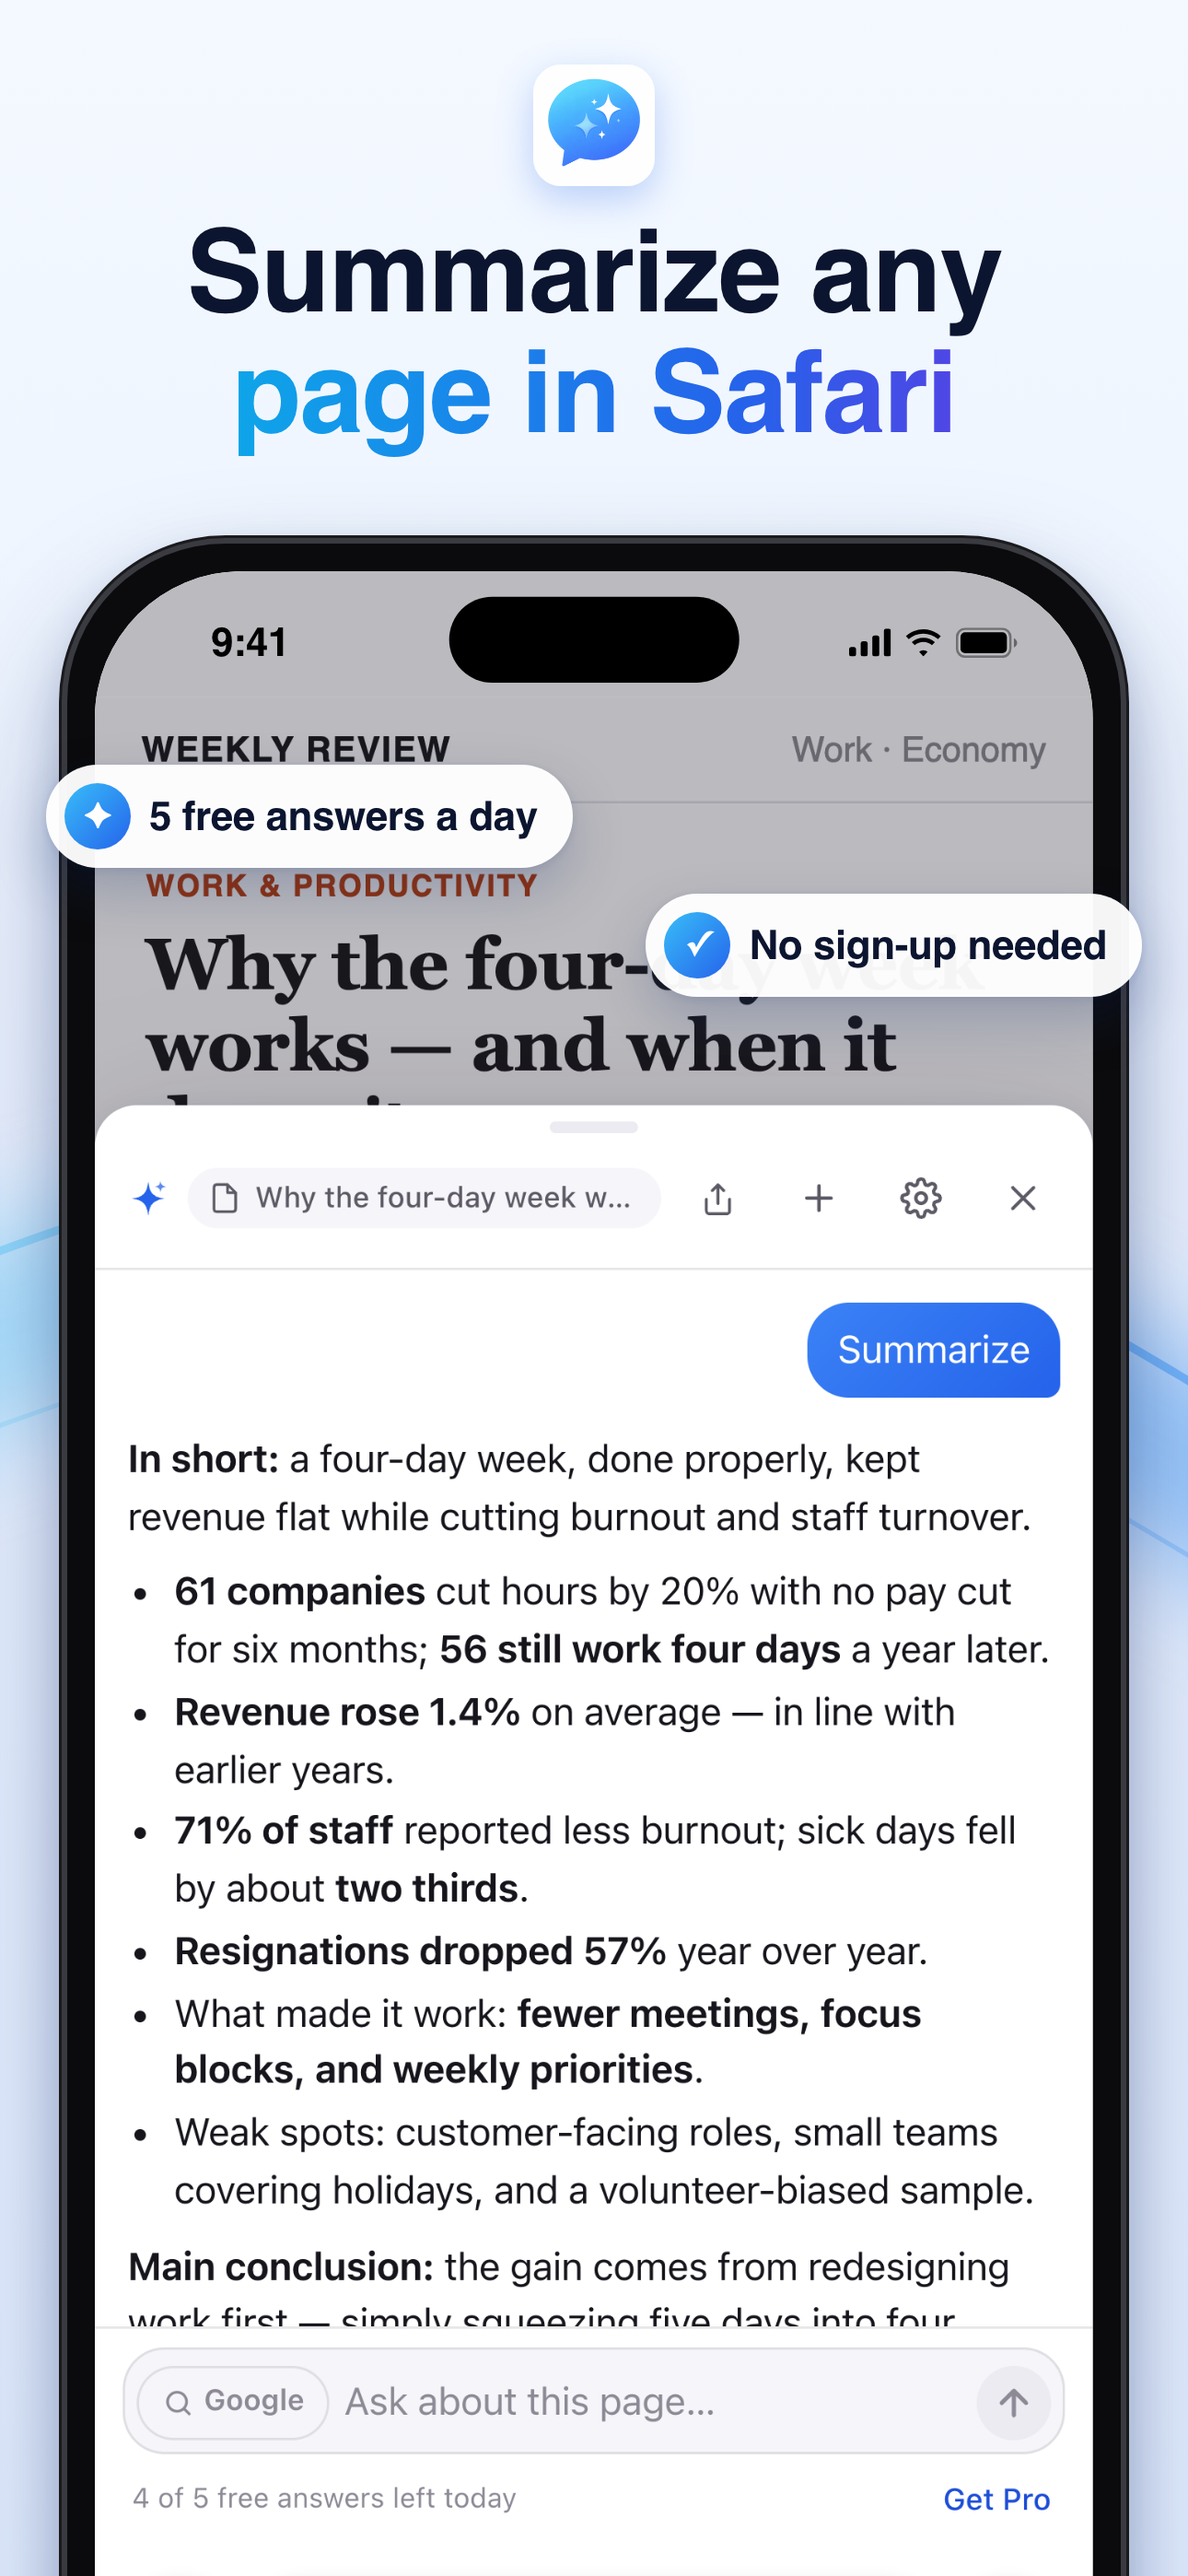
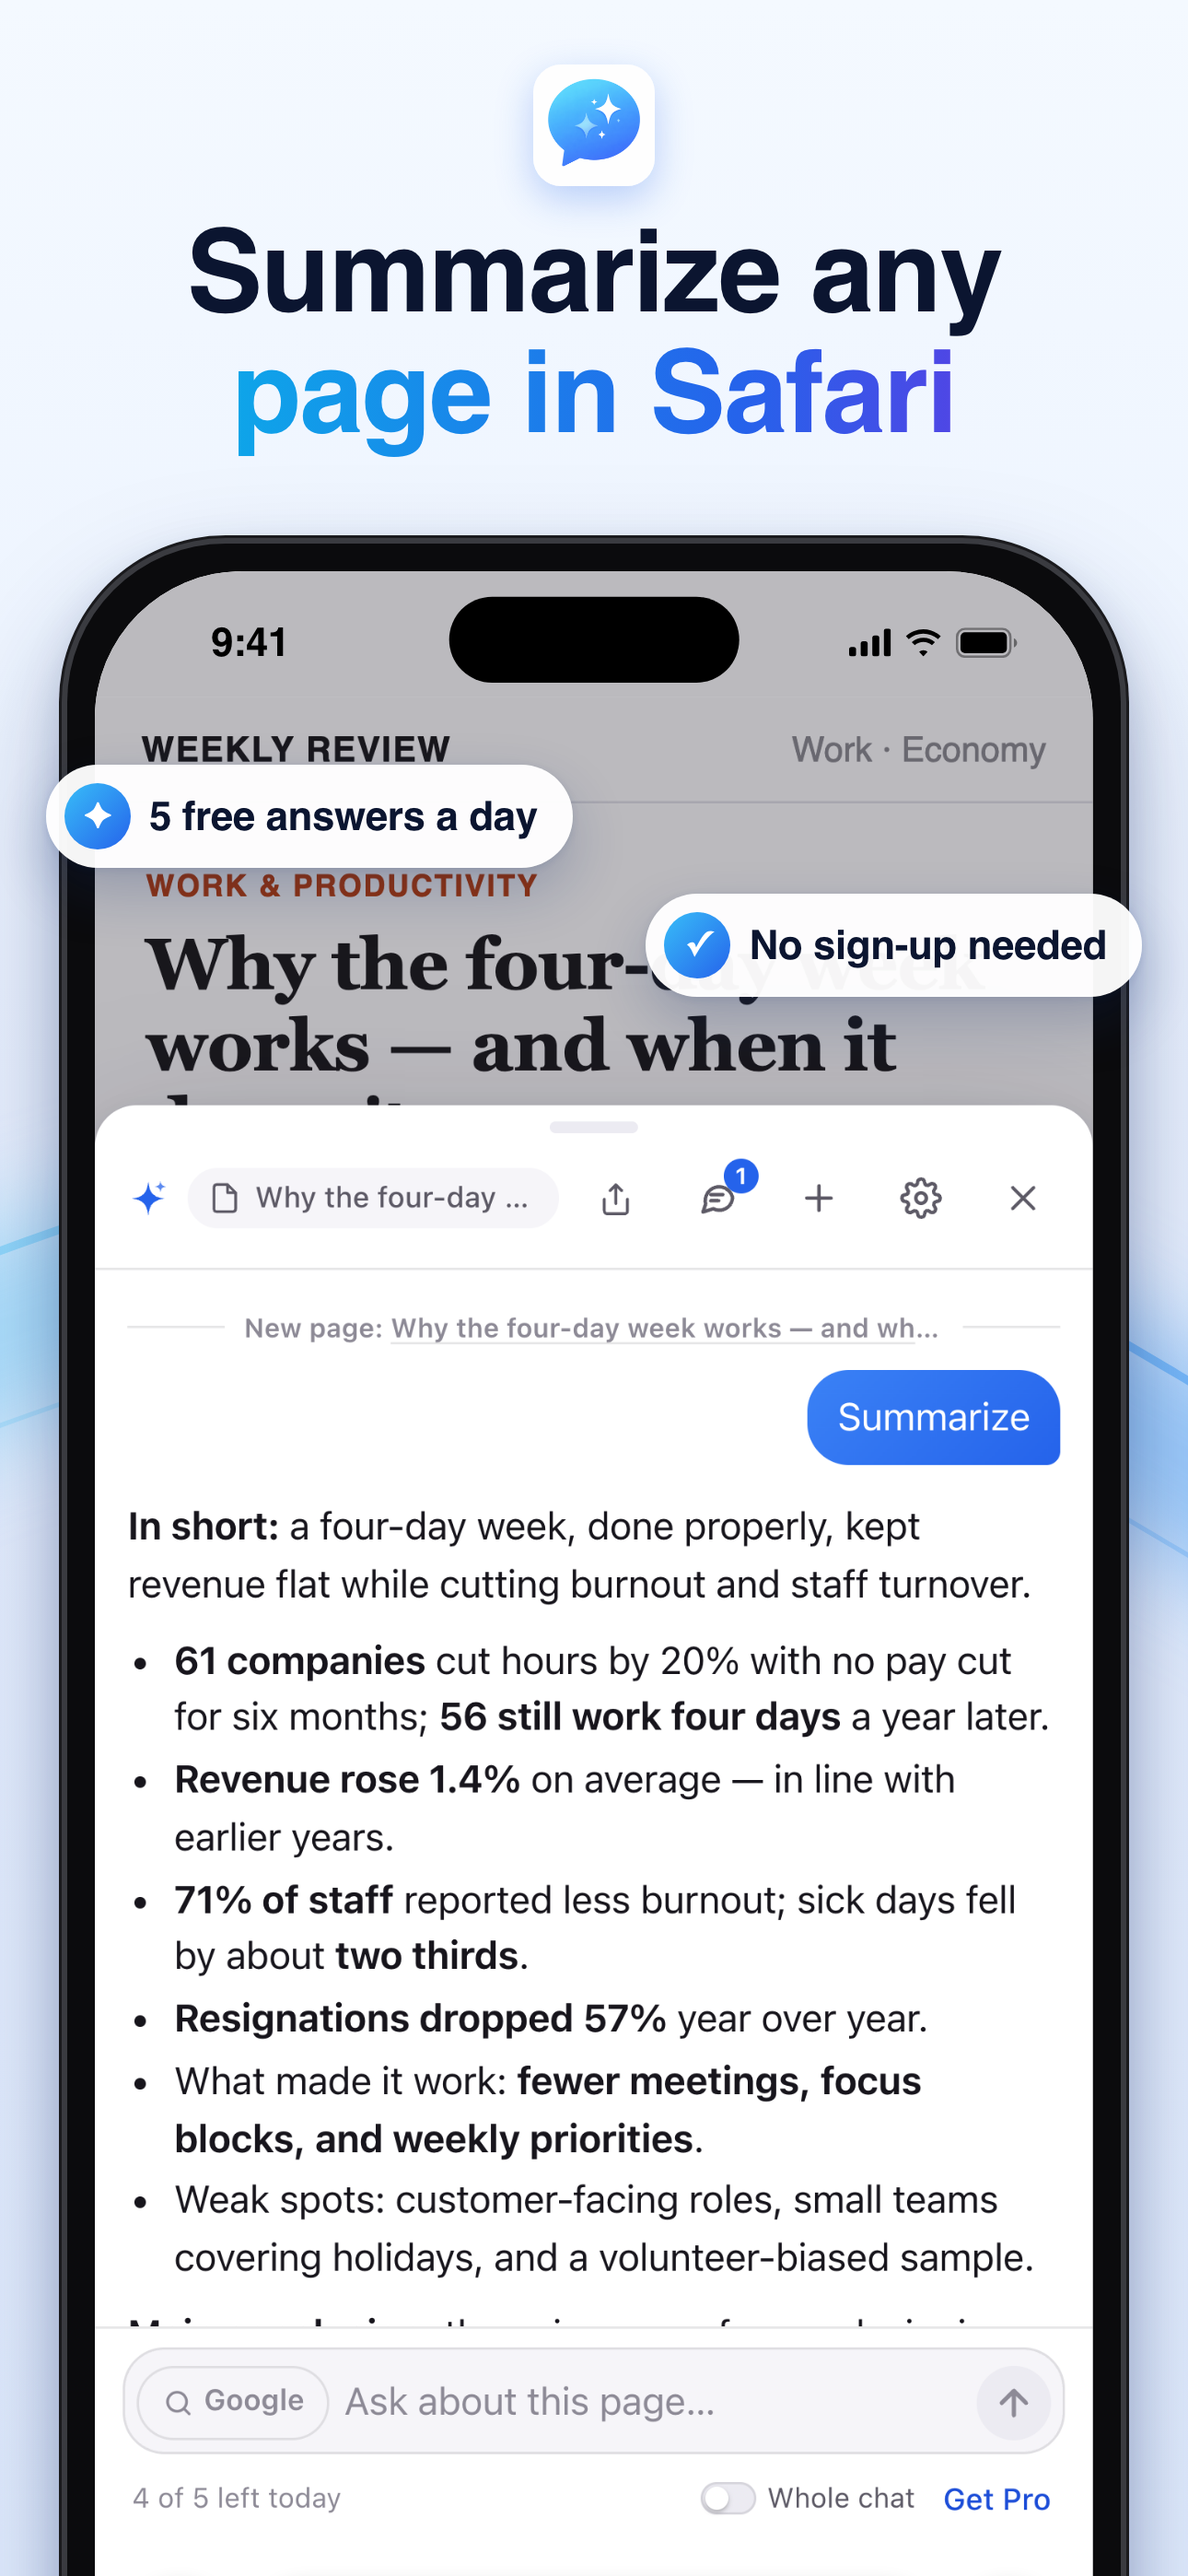
Store: preview video shows notes; capture/compose can build the note-takers' custom product page

diff --git a/store/custom-pages/notes/README.md b/store/custom-pages/notes/README.md
@@ -1,0 +1,76 @@
+# Дополнительная страница App Store: «Заметки при чтении»
+
+Отдельная страница продукта (Custom Product Page) для тех, кто, читая в браузере, постоянно переключается в приложение заметок, чтобы что-то записать. Название, подзаголовок и описание у неё те же, что у основной страницы. Свои у неё скриншоты, видео и рекламный текст, а ещё отдельная ссылка (`…?ppid=<id>`). Эту ссылку можно ставить в рекламу и посты.
+
+## Кому
+
+Люди, которые читают, чтобы собрать и потом использовать:
+- исследователи, аналитики и продакты собирают факты по теме из нескольких источников;
+- студенты конспектируют статьи и лекции;
+- авторы и журналисты собирают материал;
+- те, кто выбирает что-то дорогое и сравнивает страницы;
+- пользователи Apple Notes, Notion, Obsidian, Heptabase, Bear.
+
+**Как они делают это сейчас.** Читают в Safari, копируют, переключаются в заметки, вставляют, возвращаются и ищут, где остановились. На iPhone каждое переключение сбивает с мысли. Ссылка на источник теряется: «где я это читал?». Записанное разбросано по приложениям, а свести десять страниц в вывод приходится вручную.
+
+**Задача.** Записать важное прямо там, где читаю, не потерять, откуда это, а потом быстро свести всё собранное в вывод.
+
+## Позиционирование
+
+> Для тех, кто собирает материал, пока читает, ContextFlow — блокнот прямо на странице в Safari. Заметки пишутся не выходя со страницы, каждая помнит свой источник, а ИИ отвечает по всему собранному. В отличие от копирования в Заметки или Notion, ничего не теряет источник и не нужно уходить со страницы.
+
+Опоры, и каждая видна в продукте 2.3:
+
+| Обещание | Чем подтверждено в продукте |
+|---|---|
+| Записывать, не выходя со страницы | Кнопка отправки смахивается в «заметку»; заметка не тратит ответы ИИ |
+| Каждая заметка помнит страницу | «Новая страница: …» над записью; список страниц чата; нажатие открывает её вкладку |
+| ИИ по всему собранному | «Весь чат»: в ответ идут все сообщения, заметки и тексты других страниц чата |
+| Свежие факты рядом | Google с источниками в том же чате |
+| Унести в свой заметочник | Отметить нужные сообщения и поделиться: текст со ссылками и источниками |
+| Всё под рукой | Синхронизация через iCloud со сквозным шифрованием, закрепление чатов |
+
+Главный аргумент для этой аудитории: **заметки бесплатные и без лимитов**. Лимит есть только на ответы ИИ, 5 в день. Значит, ContextFlow можно взять просто как инструмент для заметок, а за ИИ платить, когда он понадобится.
+
+Чего не обещаем: это не замена базы знаний. Мы точка сбора, из которой материал уходит в ваш заметочник. Поэтому «Отправьте в свой заметочник», а не «Храните всё здесь».
+
+## Страница
+
+Шесть скриншотов для iPhone 6,9" и iPad 13", EN и RU (`screenshots/<locale>/`), собираются из настоящего интерфейса:
+
+1. **Заметки на любой странице в Safari** (Notes on any page, right in Safari). Ответ, две заметки, поле в режиме заметки. Плашки: «Заметки — бесплатно и без лимитов», «На всех ваших устройствах».
+2. **Каждая заметка помнит страницу** (Every note keeps its page). Список чатов: закреплённый «Исследование: четырёхдневка» с бейджем заметок и открытым списком из двух страниц.
+3. **ИИ ответит по всему, что вы собрали** (Ask AI about all you've collected). Ответ «Ваши заметки, сверенные с обеими статьями», внизу включён «Весь чат».
+4. **Отправьте в свой заметочник** (Send it to your notes app). Выбор сообщений: заметки и ответ отмечены, в панели «Поделиться».
+5. **Свежие факты с источниками** (Fresh facts with sources). Ответ Google.
+6. **Перескажет любую страницу** (Summarize any page in Safari). Базовая польза ИИ напоследок.
+
+Рекламный текст (до 170 знаков):
+- **RU:** Делайте заметки на любой странице, не выходя из Safari. Каждая хранит источник, а ИИ ответит по всему, что вы собрали. Заметки — бесплатно и без лимитов.
+- **EN:** Take notes on any page without leaving Safari. Each note keeps its source, and AI answers from everything you collected. Notes are free, with no limits.
+
+Видео для этой страницы пока не делаем: основное уже показывает заметки.
+
+## Где использовать ссылку
+
+- **Apple Search Ads**: группы объявлений с этой страницей по запросам о заметках и клиппинге: `notes`, `web clipper`, `research notes`, `заметки`, `конспект`, `заметки из браузера`, `save article`.
+- Посты в сообществах Heptabase, Obsidian, Notion и студенческих каналах: «пишите заметки прямо на странице Safari и отправляйте их к себе».
+- Отдельный раздел на сайте (`site/`) со ссылкой на эту страницу.
+
+Что смотреть: App Analytics → Sources → Product Page. Сравнивать конверсию этой страницы с основной на одинаковом трафике. Через 2–3 недели решить, переносить ли её первый скриншот на основную.
+
+## Публикация
+
+Страница проходит проверку Apple. Отправлять вместе с 2.3: на её скриншотах функции 2.3, и до выхода версии их не одобрят. В App Store Connect она лежит черновиком: Приложение → Дополнительные страницы продукта → «Notes while browsing».
+
+## Как пересобрать скриншоты
+
+```
+STREAM_DELAY_MS=8 node --experimental-strip-types tools/preview/server.mts &
+CF_API_BASE=http://localhost:8787 node scripts/build-extension.mjs --out=/tmp/ext-local
+cd tools/store
+node capture.mjs /tmp/ext-local /tmp/raw-en en                  # основные состояния (нужны notes, google, summary)
+SET=notes node capture.mjs /tmp/ext-local /tmp/raw-en en        # chats, recall, pick
+node compose.mjs /tmp/raw-en ../../store/custom-pages/notes/screenshots/en-US en notes
+```
+Для RU то же с `ru`, но расширение — копия сборки только с `_locales/ru` и `default_locale: "ru"`: Chromium на macOS игнорирует `--lang`.
